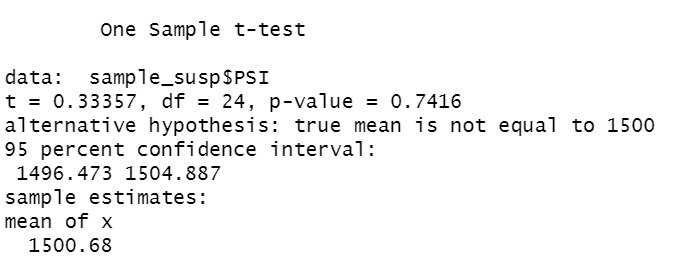
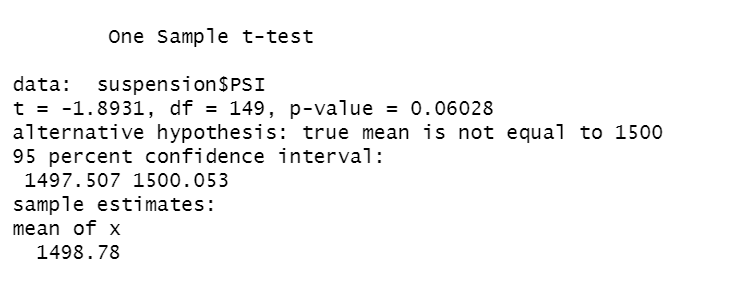
resizing t-test image

Changed region(s): [[0.0, 0.2319, 0.9641, 0.9275], [0.1205, 0.058, 0.4519, 0.1449], [0.0, 0.2609, 0.0904, 0.3188]]

diff --git a/README.md b/README.md
@@ -39,31 +39,53 @@ The design specifications for the MechaCar suspension coils dictate that the var
 
 ## T-Tests on Suspension Coils
 
-A t-test was perfomed to determine if the PSI across all manufacturing lots is statistically diffferent from the population mean of 1,500 pounds per square inch. Then follow up t-tests were performed on the individual lots.
+A t-test was perfomed to determine if the mean of the PSI across all manufacturing lots is statistically diffferent from the population mean of 1,500 pounds per square inch. Then follow up t-tests were performed on the individual lots.
+
+All lots:
 
 <img src=Images\t-test.png>
 
+The t-test on all lots shows the means are  similar to the population mean of 1,500, with the 0.06 p-value being just above the significance level of 0.05, so no statistical difference
 
 
-Lot 1
+
+Lot 1:
 
 <img src=Images\Lot1.png>
 
-Lot 2
+Lot 1 has a p-value of 1, so it has a mean that is similar to the population mean. No statistical difference.
+
+Lot 2:
 
 <img src=Images\Lot2.png>
 
-Lot 3
+Lot 2 also has a mean that is similar to the population mean(p-value=.61), so no statistical difference
+
+Lot 3:
 
 <img src=Images\Lot3.png>
+
+Lot 3 on the other han has a p-value of 0.042, which is below the significance level 0.05. There is a statistical difference.
 
 
 ## Study Design: MechaCar vs Competition
 
-- What metric or metrics are you going to test?
+There are many factors that a consumer looks at when considering which vehicle to buy, most of them are connected to $$$. One of those factors are printed and on a sheet that is attached to every vehicle on the show room. We briefly looked at the MPG of the prototypes based on certain variables, but how does MechaCar's City and Highway MPG compare with the competition?
 
-- What is the null hypothesis or alternative hypothesis?
+What metrics to test? 
 
-- What statistical test would you use to test the hypothesis? And why?
+Both City and Highway Miles per Gallon on vehicles of comparable weight and number of cylinders in the engine.
 
-- What data is needed to run the statistical test?
+What is the null hypothesis and alternative hypothesis?
+
+H₀= There is no statistical difference between MechaCar's MPG and their competitors MPG when measuring like weights and number of cylinders.
+
+Hₐ=There is a statistical difference between MechaCar's MPG and their competitors MPG when measuring like weights and number of cylinders.
+
+What statistical test to test the hypothesis? 
+
+A two sample t-test would be used to measure to see if there is a statistical difference between the samples.
+
+What data is needed to run the statistical test?
+
+We would need data from all of MechaCar's competitors that included the vehicle's weight, number of cylinders, highway MPG, and city MPG.
